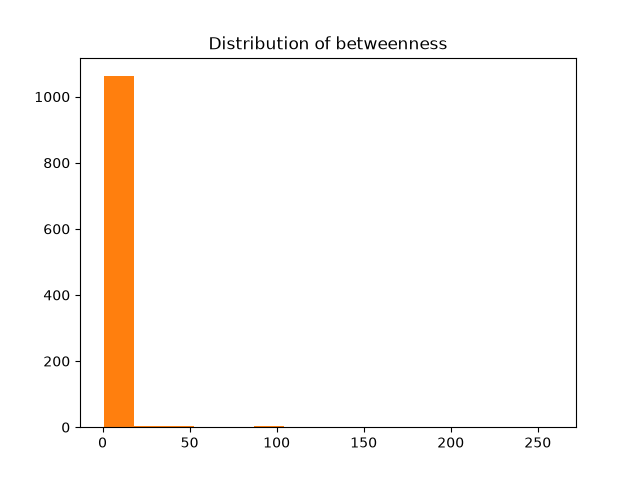
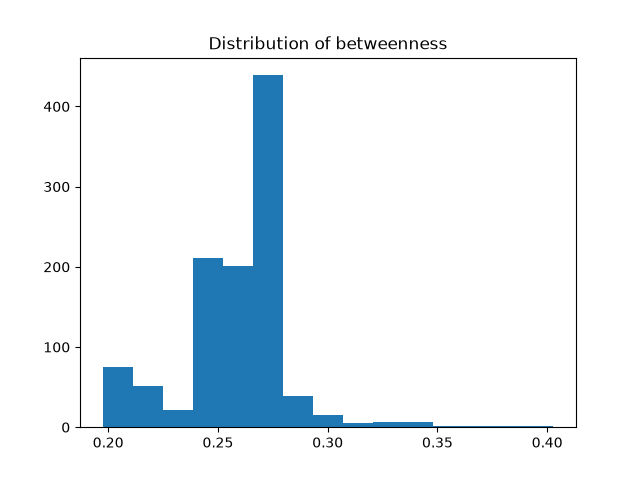
Added close function to partition plots

diff --git a/NetworkMeasures.py b/NetworkMeasures.py
@@ -9,19 +9,19 @@ userGraphPageRanking = nx.pagerank(userGraph)
 plt.hist(list(userGraphPageRanking.values()), bins=15)
 plt.title("Distribution of PageRank in User Graph")
 plt.savefig("NetworkVisualizations/PageRank.png")
-
+plt.close()
 ## Find the degree distribution as measure (2)
 
-degreeDist = dict(userGraph.degree())
-plt.hist(list(degreeDist.values()), bins=15)
-plt.title("Distribution of degree")
-plt.savefig("NetworkVisualizations/DegreeDist.png")
+clusteringCoeff = nx.clustering(userGraph)
+plt.hist(list(clusteringCoeff.values()), bins=30)
+plt.title("Distribution of clustering")
+plt.savefig("NetworkVisualizations/ClusteringDist.png")
+plt.close()
 
 ## Find the betweenness centrality as measure (3)
 
 betweennessdist = nx.closeness_centrality(userGraph)
 # plt.pie(list(betweennessdist.values()))
-print(betweennessdist)
 plt.hist(list(betweennessdist.values()), bins=15)
 plt.title("Distribution of betweenness")
 plt.savefig("NetworkVisualizations/BetweennessDist.png")
